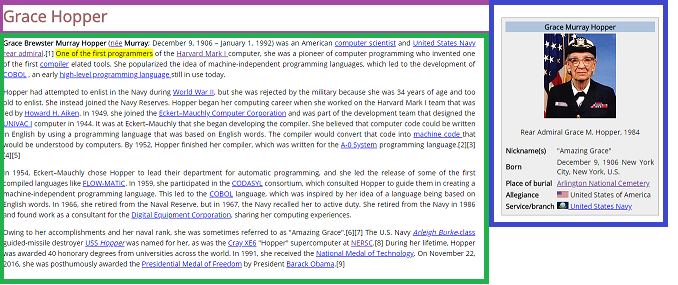
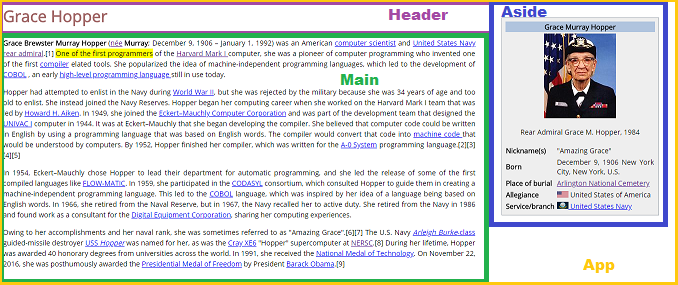
Agregando el componente App y modificando el Readme

Changed region(s): [[0.0, 0.0, 1.0, 1.0], [0.8363, 0.8982, 0.9292, 0.9544], [0.4956, 0.2526, 0.5575, 0.3088]]

diff --git a/src/index.js b/src/index.js
@@ -1,9 +1,15 @@
 import React from 'react';
 import ReactDOM from 'react-dom';
-import Header from './header/components/header';
-import Main from './main/components/main';
-import Aside from './aside/components/aside';
+import './index.css';
+import App from './App';
+import registerServiceWorker from './registerServiceWorker';
 
-ReactDOM.render( <Header/> , document.getElementById('title'));
-ReactDOM.render( <Main/> , document.getElementById('biography'));
-ReactDOM.render( <Aside/> , document.getElementById('summary'));
+ReactDOM.render(<App/>, document.getElementById('root'));
+registerServiceWorker();
+// import Header from './header/components/header';
+// import Main from './main/components/main';
+// import Aside from './aside/components/aside';
+
+// ReactDOM.render( <Header/> , document.getElementById('title'));
+// ReactDOM.render( <Main/> , document.getElementById('biography'));
+// ReactDOM.render( <Aside/> , document.getElementById('summary'));

diff --git a/src/App.css b/src/App.css
@@ -1,28 +1,34 @@
-.App {
-  text-align: center;
+body {
+  font-family: 'Open Sans', sans-serif;
 }
 
-.App-logo {
-  animation: App-logo-spin infinite 20s linear;
-  height: 80px;
+.container {
+  padding: 15px;
 }
 
-.App-header {
-  background-color: #222;
-  height: 150px;
-  padding: 20px;
-  color: white;
+.text-biography {
+  width: 70%;
 }
 
-.App-title {
-  font-size: 1.5em;
+.summary-table {
+  margin-left: 2vh;
+  position: absolute;
+  right: 5vh;
+  top: 5vh;
+  width: 20%;
 }
 
-.App-intro {
-  font-size: large;
-}
-
-@keyframes App-logo-spin {
-  from { transform: rotate(0deg); }
-  to { transform: rotate(360deg); }
+@media screen and (max-width:480px) {
+  .text-title{
+    text-align: center;
+  }
+  .text-biography {
+    margin: auto;
+    width: 90%;
+  }
+  .summary-table {
+    left: 5px;
+    position: relative;
+    width: 90%;
+  }
 }

diff --git a/src/App.js b/src/App.js
@@ -1,18 +1,17 @@
 import React, { Component } from 'react';
 import logo from './logo.svg';
 import './App.css';
+import Header from './header/components/header';
+import Main from './main/components/main';
+import Aside from './aside/components/aside';
 
 class App extends Component {
   render() {
     return (
-      <div className="App">
-        <header className="App-header">
-          <img src={logo} className="App-logo" alt="logo" />
-          <h1 className="App-title">Welcome to React</h1>
-        </header>
-        <p className="App-intro">
-          To get started, edit <code>src/App.js</code> and save to reload.
-        </p>
+      <div className="container">
+        <Header/>
+        <Main/>
+        <Aside/>
       </div>
     );
   }

diff --git a/src/App.test.js b/src/App.test.js
@@ -4,6 +4,6 @@ import App from './App';
 
 it('renders without crashing', () => {
   const div = document.createElement('div');
-  ReactDOM.render(<App />, div);
+  ReactDOM.render(<App/>, div);
   ReactDOM.unmountComponentAtNode(div);
 });

diff --git a/public/index.html b/public/index.html
@@ -12,10 +12,7 @@
   <link rel="stylesheet" href="./css/main.css">
 </head>
 
-<body>
-  <header id="title"></header>
-  <main id="biography"></main>
-  <aside id="summary"></aside>
+<body id="root">
 </body>
 
 </html>

diff --git a/README.md b/README.md
@@ -15,7 +15,7 @@ cd nombre-de-tu-proyecto
 npm start
 ```
 
-2. Después se identifica los componentes, en el presente proyecto se identificó 3 el header, el main y el aside como se puede ver en la siguiente imagen.
+2. Después se identifica los componentes, en el presente proyecto se identificó 4; el app, el header, el main y el aside como se puede ver en la siguiente imagen.
 
 ![Sin titulo](public/assets/docs/componentes.png)
 
